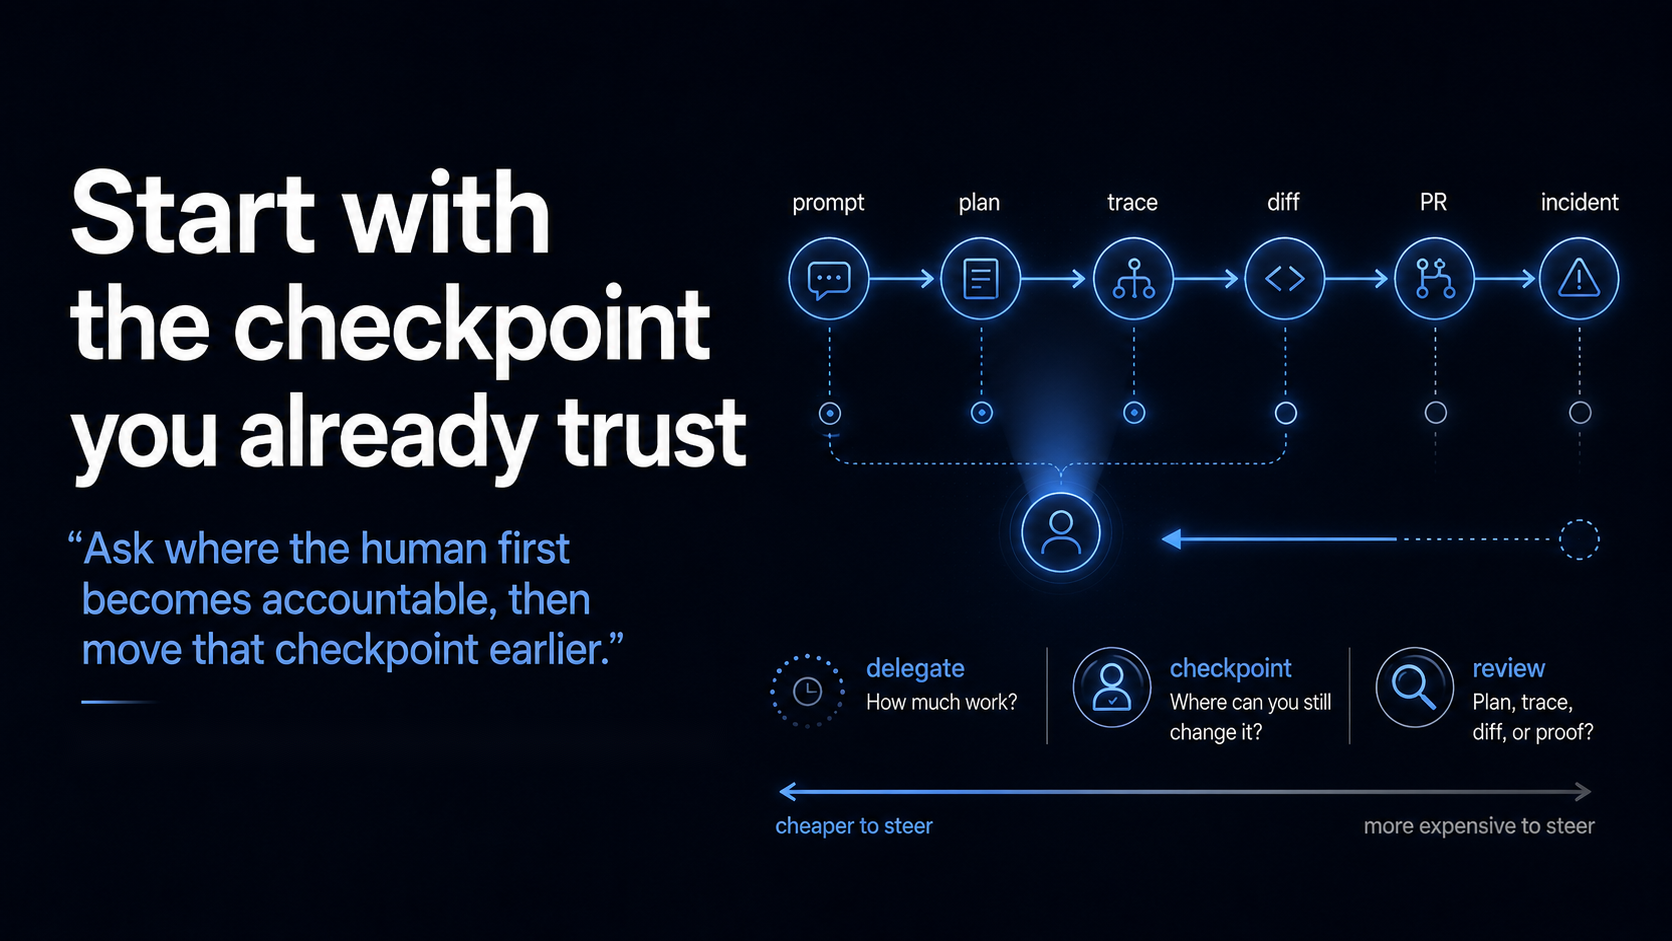
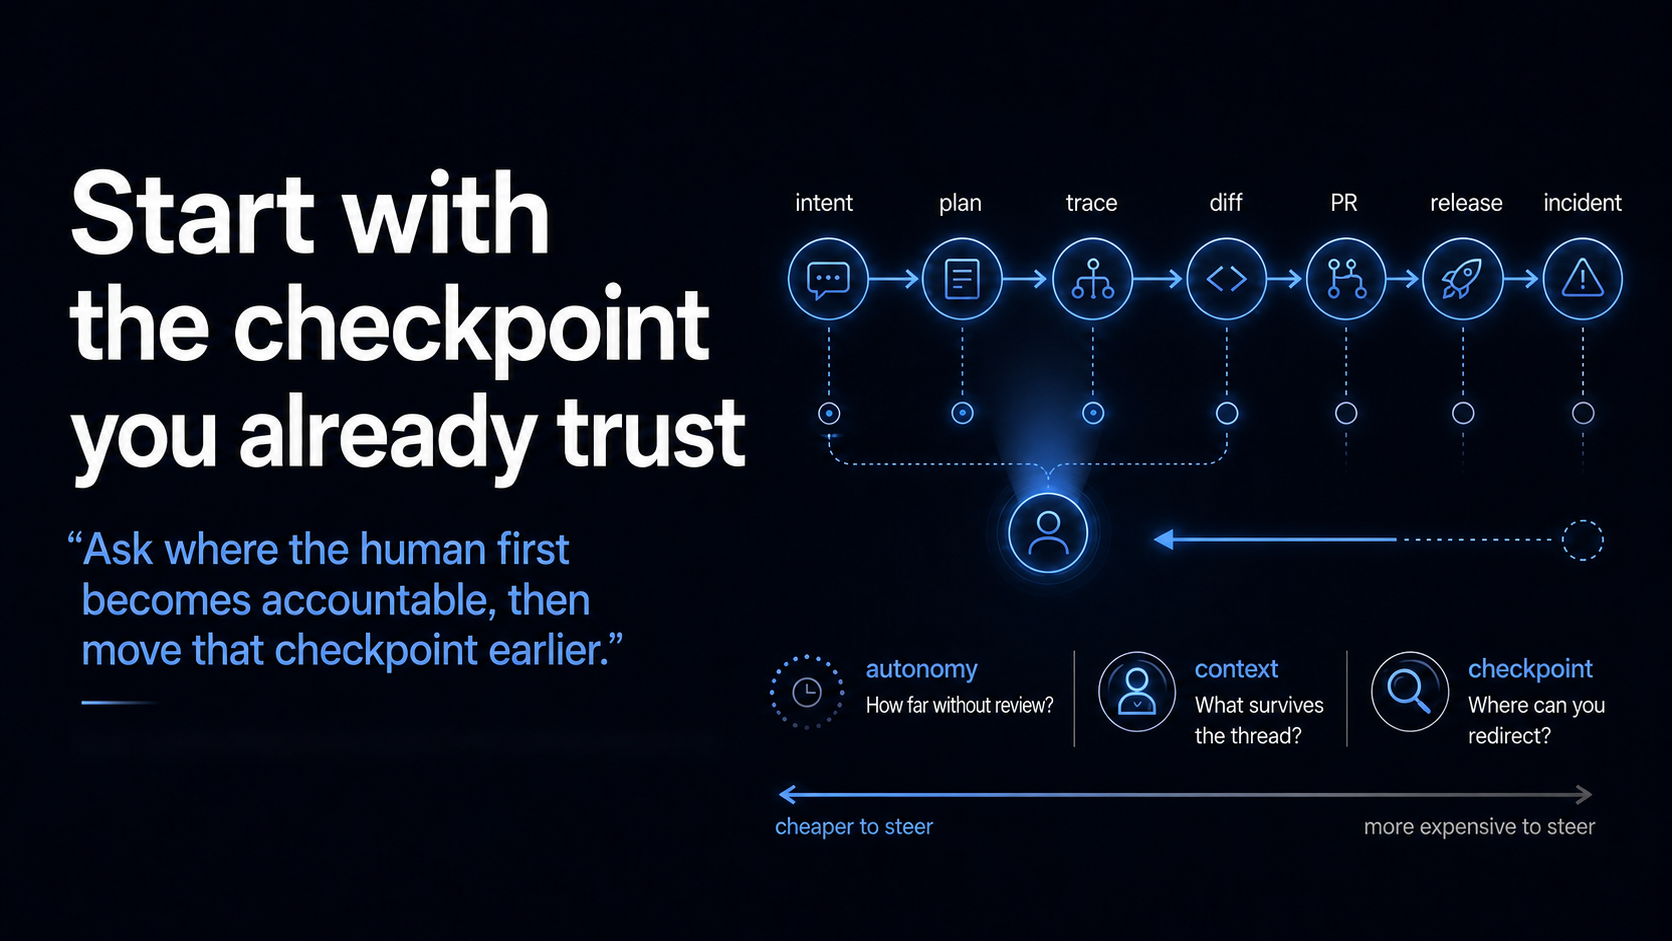
Reframe coding agent checkpoints
Replace the adoption funnel with autonomy, durable context, and human intervention framing across the canonical article and related decks.

Amp-Thread-ID: https://ampcode.com/threads/T-019fd370-d5f9-732e-acf6-4d9848afabef

diff --git a/src/content/posts/durable-context-coding-agents-extended-deck.md b/src/content/posts/durable-context-coding-agents-extended-deck.md
@@ -74,9 +74,9 @@ layout: text
 
 > Ask where the human first becomes accountable, then move that checkpoint earlier.
 
-<figure class="talk-figure" aria-label="Audience checkpoint ladder">
+<figure class="talk-figure" aria-label="Autonomy, durable context, and human checkpoint ladder">
   <div class="talk-path">
-    <span class="talk-node">prompt</span>
+    <span class="talk-node">intent</span>
     <span class="talk-arrow">→</span>
     <span class="talk-node talk-node--accent">plan</span>
     <span class="talk-arrow">→</span>
@@ -86,31 +86,31 @@ layout: text
     <span class="talk-arrow">→</span>
     <span class="talk-node">PR</span>
     <span class="talk-arrow">→</span>
-    <span class="talk-node">incident</span>
+    <span class="talk-node">release</span>
   </div>
   <div class="talk-grid talk-grid--3">
     <div class="talk-card">
-      <span>delegate</span>
-      <strong>How much work?</strong>
+      <span>autonomy</span>
+      <strong>How far without review?</strong>
     </div>
     <div class="talk-card talk-card--accent">
-      <span>checkpoint</span>
-      <strong>Where can you still change it?</strong>
+      <span>context</span>
+      <strong>What survives the thread?</strong>
     </div>
     <div class="talk-card">
-      <span>review</span>
-      <strong>Plan, trace, diff, or proof?</strong>
+      <span>checkpoint</span>
+      <strong>Where can you redirect?</strong>
     </div>
   </div>
 </figure>
 
 <!-- notes -->
 
-Before prescribing a workflow, locate the real checkpoint. A team using agents as autocomplete has a different problem from a team running several terminal agents against the same repo. A senior engineer who reviews every plan has a different risk profile from one who sees only the final pull request.
+Before prescribing a workflow, locate the operating boundary. A team using agents as autocomplete has a different problem from a team running several terminal agents against the same repo. The useful distinction is not whether they use agents, but how far the agents run, what context travels with the work, and when a human can still redirect it.
 
-Ask three questions: how much work do you let agents do, where is your first checkpoint, and what do you actually review?
+Ask three questions: how far can the agent run without review, which shared context survives outside chat, and where can a human still change direction before rework becomes expensive?
 
-Durable context is not a documentation hobby. It is the way to put the checkpoint where it can still change the work.
+Durable context is not a documentation hobby. It carries shared intent to a checkpoint where it can still change the work.
 
 ## Fast form without shared intent
 <!-- slide:

diff --git a/src/content/posts/durable-context-coding-agents.md b/src/content/posts/durable-context-coding-agents.md
@@ -50,23 +50,23 @@ Durable context moves intent, constraints, accepted tradeoffs, proof targets, st
 > Ask where the human first becomes accountable, then move that checkpoint earlier.
 
 ```text
-Who uses coding agents?
+How far can the agent run without review?
   ↓
-How much do they delegate?
+What shared context survives the thread?
   ↓
-Where is the first real checkpoint?
-plan → trace → diff → PR review → incident review
+Where can a human still redirect the work?
+intent → plan → trace → diff → PR → release → incident
 ```
 
-Before prescribing a workflow, locate the real checkpoint. Autocomplete has a different risk profile from several terminal agents working against the same repo.
+Before prescribing a workflow, locate the operating boundary. Autocomplete has a different risk profile from several terminal agents working against the same repo.
 
 Ask three questions:
 
-- How much work do you let agents do?
-- Where is your first checkpoint: prompt, plan, trace, diff, PR, or incident?
-- What do you actually review: the plan, commands, code, tests, or final summary?
+- What may the agent do before it must stop for review?
+- Which intent, constraints, decisions, and proof targets survive outside chat?
+- Where can a human still change direction before rework becomes expensive?
 
-Durable context puts the checkpoint where it can still change the work.
+Durable context carries shared intent to a checkpoint where it can still change the work.
 
 ## The model is not your project memory
 

diff --git a/src/content/posts/durable-context-coding-agents-image-deck.md b/src/content/posts/durable-context-coding-agents-image-deck.md
@@ -47,7 +47,7 @@ layout: image
 class: image-only
 -->
 
-![Generated slide showing a checkpoint timeline from prompt to incident, with the trusted checkpoint moving earlier.](/slides/durable-context-coding-agents-image-deck/Slide-3.png)
+![Generated slide showing a timeline from intent to incident and asking how far the agent runs, what context survives, and where a human can redirect the work.](/slides/durable-context-coding-agents-image-deck/Slide-3.png)
 
 ## Fast form without shared intent
 <!-- slide:
